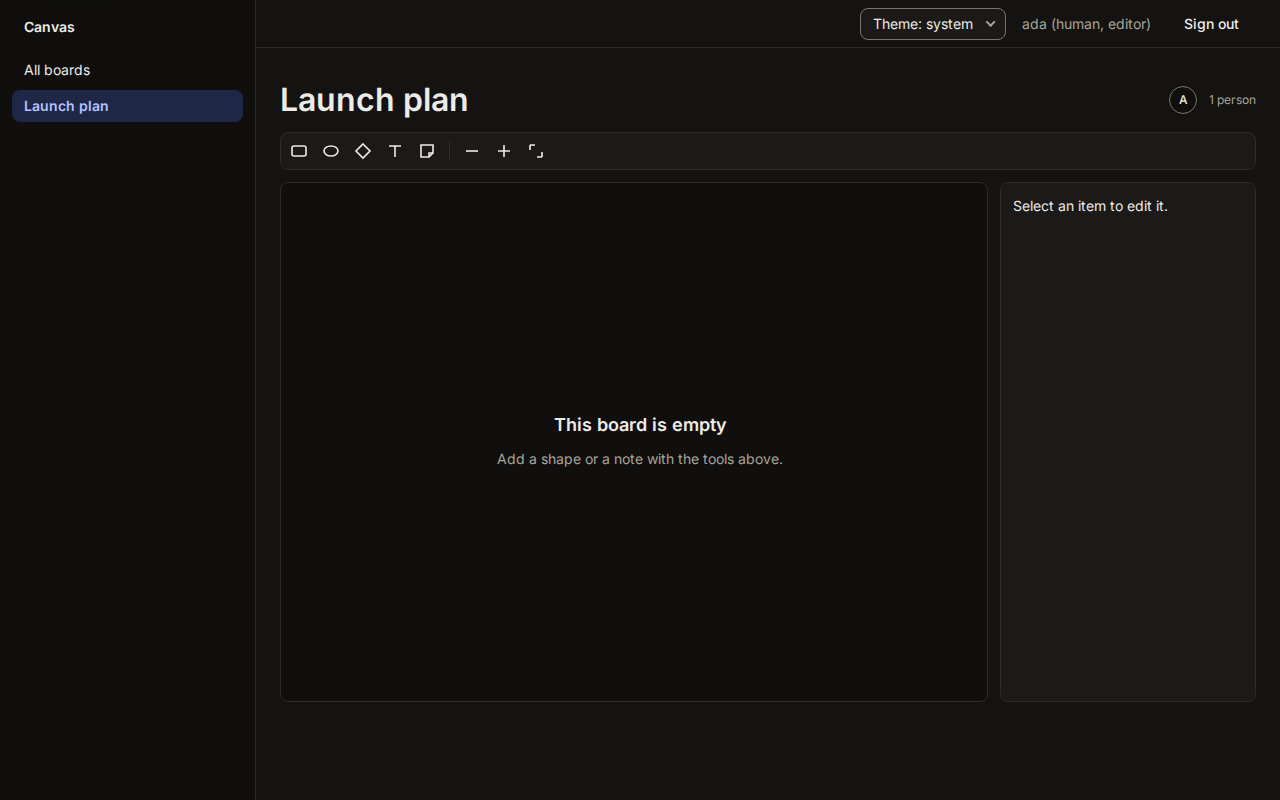
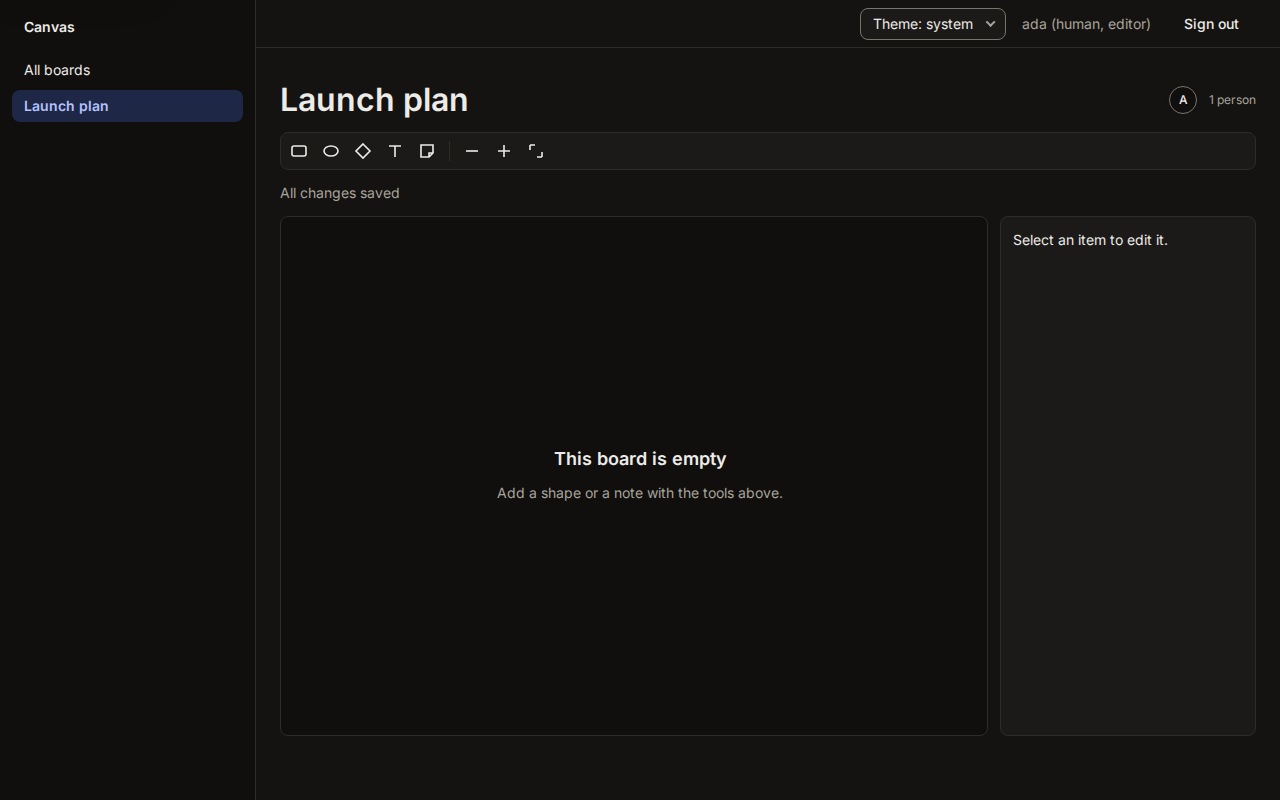
Fix the UI review findings
Hold reads while a write waits, so an old read cannot put old values
back, and warn before unload with unsaved edits. Show the focus ring
on focus as well as on selection. Read at most once a second. Test
the sub-protocol token parser. Write screenshots to test-results
unless UPDATE_SCREENSHOTS is set. Scope the board heading locator.

Changed region(s): [[0.375, 0.5, 0.625, 0.625], [0.7812, 0.25, 0.9062, 0.3125], [0.2188, 0.2188, 0.3125, 0.25]]

diff --git a/ui/BoardView.tsx b/ui/BoardView.tsx
@@ -35,7 +35,12 @@ export function BoardView({ id, token, me }: { id: string; token: string; me: { 
   const canvasBox = useRef<HTMLDivElement>(null);
   const editable = me.role === "editor";
 
-  const load = useCallback(async () => {
+  const [saving, setSaving] = useState(0);
+  const pending = useRef(0);
+  const lastRead = useRef(0);
+  const timer = useRef<ReturnType<typeof setTimeout> | undefined>(undefined);
+
+  const read = useCallback(async () => {
     try {
       const data = await client.readBoard(id);
       setBoard({ state: "ready", data });
@@ -44,10 +49,33 @@ export function BoardView({ id, token, me }: { id: string; token: string; me: { 
       setBoard((prev) => (prev.state === "ready" ? prev : { state: "error", message: describe(e), missing: e instanceof CanvasApiError && e.status === 404 }));
     }
   }, [client, id]);
+  /**
+   * Read the board again, at most once a second, and never while a write is waiting: the screen is ahead of the
+   * server then, and an older read would put old values back. The last write reads when the queue is empty.
+   */
+  const load = useCallback(async () => {
+    if (pending.current > 0) return;
+    const wait = lastRead.current + 1000 - Date.now();
+    if (wait > 0) {
+      clearTimeout(timer.current);
+      timer.current = setTimeout(() => void load(), wait);
+      return;
+    }
+    lastRead.current = Date.now();
+    await read();
+  }, [read]);
   useEffect(() => {
     setBoard({ state: "loading" });
+    lastRead.current = 0;
     void load();
+    return () => clearTimeout(timer.current);
   }, [load]);
+  useEffect(() => {
+    if (saving === 0) return;
+    const guard = (event: BeforeUnloadEvent) => event.preventDefault();
+    window.addEventListener("beforeunload", guard);
+    return () => window.removeEventListener("beforeunload", guard);
+  }, [saving]);
 
   useEffect(() => {
     const joined = joinRoom({ board: id, token, name: me.actor, onPeers: setPeers, onChange: () => void load(), onStatus: setLive });
@@ -64,6 +92,8 @@ export function BoardView({ id, token, me }: { id: string; token: string; me: { 
   /** Run one write after the one before it, then read the board again and tell the room. */
   const write = useCallback(
     (change: () => Promise<unknown>, failure: string, select?: string) => {
+      pending.current++;
+      setSaving((n) => n + 1);
       queue.current = queue.current.then(async () => {
         try {
           await change();
@@ -71,8 +101,12 @@ export function BoardView({ id, token, me }: { id: string; token: string; me: { 
         } catch (e) {
           toast({ title: failure, description: describe(e), tone: "danger" });
         }
+        pending.current--;
+        // The last write of a run reads the server's board. An earlier one leaves the screen as it is.
+        lastRead.current = 0;
         await load();
         if (select) setSelected(select);
+        setSaving((n) => n - 1);
       });
     },
     [load, toast],
@@ -118,6 +152,7 @@ export function BoardView({ id, token, me }: { id: string; token: string; me: { 
     );
   }
   const { data: d } = board;
+  const status = saving > 0 ? "Saving…" : "All changes saved";
   const empty = d.nodes.length === 0 && d.edges.length === 0;
 
   return (
@@ -135,6 +170,7 @@ export function BoardView({ id, token, me }: { id: string; token: string; me: { 
         <ToolbarButton label="Zoom in" icon={icon(<path d="M4 10h12M10 4v12" />)} onClick={() => zoom(1.25)} />
         <ToolbarButton label="Reset view" icon={icon(<path d="M4 4h5M4 4v5M16 16h-5M16 16v-5" />)} onClick={() => setView({ x: 40, y: 40, k: 1 })} />
       </Toolbar>
+      <p className="note" role="status">{editable ? status : ""}</p>
       {!editable && <p className="note">This token can read the board but not change it.</p>}
       <div className="stage" ref={canvasBox}>
         <Canvas data={d} selected={selected} editable={editable} view={view} onView={setView} onSelect={setSelected} onMove={move} onResize={resize} onDelete={remove} />

diff --git a/e2e/ui.spec.ts b/e2e/ui.spec.ts
@@ -17,13 +17,16 @@ import { createClient } from "../src/client.js";
 import { TOKENS } from "./playwright.config.js";
 
 const API = "http://127.0.0.1:18900/api/v1/canvas";
-const shots = (name: string) => `docs/ui/${name}.png`;
+// The committed set in docs/ui is refreshed on purpose (UPDATE_SCREENSHOTS=1). A normal run writes to test-results.
+const shots = (name: string) => `${process.env.UPDATE_SCREENSHOTS ? "docs/ui" : "test-results/screens"}/${name}.png`;
+/** Edits are saved when the page says so. A reload before that would drop the last ones. */
+const saved = (page: Page) => expect(page.getByText("All changes saved")).toBeVisible();
 
 async function signIn(page: Page, token: string) {
   await page.goto("/");
   await page.getByLabel("Access token").fill(token);
   await page.getByRole("button", { name: "Sign in" }).click();
-  await expect(page.getByRole("heading", { name: "Boards" })).toBeVisible();
+  await expect(page.getByRole("heading", { name: "Boards", exact: true })).toBeVisible();
 }
 
 async function axe(page: Page) {
@@ -97,6 +100,7 @@ test("create a board, add a shape and a note, move them, reload", async ({ page 
   // The box includes the stroke.
   await expect.poll(async () => Math.round((await box(page, "Rectangle")).width / 5)).toBe(44);
 
+  await saved(page);
   await page.reload();
   await expect(item(page, "Sticky note: Ship it")).toBeVisible();
   const after = await box(page, "Rectangle");
@@ -135,6 +139,7 @@ test("the keyboard moves, resizes, deletes, and clears", async ({ page }) => {
   await expect.poll(async () => Math.round((await box(page, "Rectangle")).x - start.x)).toBe(20);
   await page.keyboard.press("Shift+ArrowRight");
   await expect.poll(async () => Math.round((await box(page, "Rectangle")).width - start.width)).toBe(10);
+  await saved(page);
   await page.reload();
   const kept = await box(page, "Rectangle");
   expect([Math.round(kept.x - start.x), Math.round(kept.width - start.width)]).toEqual([20, 10]);
@@ -142,6 +147,9 @@ test("the keyboard moves, resizes, deletes, and clears", async ({ page }) => {
   await item(page, "Rectangle: First").focus();
   await page.keyboard.press("Escape");
   await expect(item(page, "Rectangle: First")).toHaveAttribute("aria-pressed", "false");
+  // Focus stays on the item, so its ring must show.
+  await expect(item(page, "Rectangle: First")).toBeFocused();
+  await expect(item(page, "Rectangle: First").locator(".ring")).toHaveCSS("stroke", /rgb/);
   await item(page, "Ellipse: Second").focus();
   await page.keyboard.press("Delete");
   await expect(item(page, "Ellipse: Second")).toHaveCount(0);
@@ -186,7 +194,7 @@ test("a missing board and a failed list show a way out", async ({ page }) => {
   await check(page, "error");
   await page.unroute("**/api/v1/canvas/boards");
   await page.getByRole("button", { name: "Try again" }).click();
-  await expect(page.getByRole("heading", { name: "Boards" })).toBeVisible();
+  await expect(page.getByRole("heading", { name: "Boards", exact: true })).toBeVisible();
 });
 
 test("two editors see each other and each other's changes", async ({ browser }) => {

diff --git a/src/worker.test.ts b/src/worker.test.ts
@@ -22,3 +22,34 @@ describe("token roles", () => {
     expect(ask({ actor: "a", kind: "human" }, "u".repeat(40))).toBeNull();
   });
 });
+
+// The browser sends its token as a sub-protocol. Failure cases, written before the parser: a wrong name or a third
+// protocol gets in, bad base64url or bytes that are not UTF-8 throw, an unknown token gets in, a viewer becomes an
+// editor, the token works on a plain request, or a wrong Authorization header falls back to the sub-protocol.
+describe("token as a WebSocket sub-protocol", () => {
+  const env = { CANVAS_API_TOKENS: JSON.stringify({ [TOKEN]: { actor: "a", kind: "human" }, ["v".repeat(40)]: { actor: "v", kind: "human", role: "viewer" } }) } as never;
+  const b64 = (text: string) => btoa(text).replace(/\+/g, "-").replace(/\//g, "_").replace(/=+$/, "");
+  const socket = (protocol: string | null, extra: Record<string, string> = {}, upgrade = "websocket") =>
+    authenticate(new Request("http://x/", { headers: { ...(upgrade ? { upgrade } : {}), ...(protocol === null ? {} : { "sec-websocket-protocol": protocol }), ...extra } }), env);
+
+  test("a good token works, and the viewer role is kept", () => {
+    expect(socket(`agentic-canvas.bearer, ${b64(TOKEN)}`)).toEqual({ actor: { kind: "human", id: "a" }, role: "editor" });
+    expect(socket(`agentic-canvas.bearer,${b64("v".repeat(40))}`)?.role).toBe("viewer");
+  });
+
+  test.each([
+    ["a wrong protocol name", `other.bearer, ${b64(TOKEN)}`],
+    ["a third protocol", `agentic-canvas.bearer, ${b64(TOKEN)}, extra`],
+    ["no token part", "agentic-canvas.bearer"],
+    ["characters outside base64url", "agentic-canvas.bearer, a+b/c="],
+    ["bytes that are not UTF-8", "agentic-canvas.bearer, _w"],
+    ["an unknown token", `agentic-canvas.bearer, ${b64("u".repeat(40))}`],
+  ])("%s gets nothing", (_name, protocol) => {
+    expect(socket(protocol)).toBeNull();
+  });
+
+  test("a plain request cannot use it, and a wrong Authorization header does not fall back to it", () => {
+    expect(socket(`agentic-canvas.bearer, ${b64(TOKEN)}`, {}, "")).toBeNull();
+    expect(socket(`agentic-canvas.bearer, ${b64(TOKEN)}`, { authorization: `Bearer ${"u".repeat(40)}` })).toBeNull();
+  });
+});

diff --git a/ui/Canvas.tsx b/ui/Canvas.tsx
@@ -201,7 +201,7 @@ export function Canvas({ data, selected, editable, view, onView, onSelect, onMov
                 <line x1={x1} y1={y1} x2={x2} y2={y2} className="hit" />
                 <line x1={x1} y1={y1} x2={x2} y2={y2} className="edge" markerEnd={e.endArrow ? "url(#arrow)" : undefined} markerStart={e.startArrow ? "url(#arrow)" : undefined} />
                 {e.text && <text aria-hidden="true" x={(x1 + x2) / 2} y={(y1 + y2) / 2 - 6} className="edge-text" textAnchor="middle">{e.text}</text>}
-                {selected === e.id && <line x1={x1} y1={y1} x2={x2} y2={y2} className="ring-line" />}
+                <line x1={x1} y1={y1} x2={x2} y2={y2} className="ring-line" />
               </g>
               {badge(e, (x1 + x2) / 2 - 25, (y1 + y2) / 2 - 14)}
               </g>
@@ -222,7 +222,7 @@ export function Canvas({ data, selected, editable, view, onView, onSelect, onMov
                 <text aria-hidden="true" x={tx} y={top} textAnchor={anchor} className={n.type === "sticky" ? "label sticky-label" : "label"}>
                   {n.type === "image" && !n.text ? <tspan>Image</tspan> : lines.map((l, i) => <tspan key={i} x={tx} dy={i === 0 ? 0 : 18}>{i < lines.length - 1 ? `${l} ` : l}</tspan>)}
                 </text>
-                {selected === n.id && <rect x={s.x - 4} y={s.y - 4} width={s.w + 8} height={s.h + 8} rx={8} className="ring" />}
+                <rect x={s.x - 4} y={s.y - 4} width={s.w + 8} height={s.h + 8} rx={8} className="ring" />
                 {selected === n.id && editable && <circle cx={s.x + s.w + 4} cy={s.y + s.h + 4} r={7 / view.k} className="handle" onPointerDown={(ev) => begin(ev, "resize", n.id)} />}
               </g>
               {badge(n, s.x, s.y)}

diff --git a/ui/ui.css b/ui/ui.css
@@ -26,8 +26,9 @@ html, body, #root { height: 100%; margin: 0; }
 .hit { stroke: transparent; stroke-width: 14; }
 .arrowhead { fill: var(--ad-color-text-muted); }
 .edge-text { fill: var(--ad-color-text); paint-order: stroke; stroke: var(--ad-color-surface-sunken); stroke-width: 4px; pointer-events: none; }
-.ring, .ring-line { fill: none; stroke: var(--ad-color-focus); stroke-width: 3; pointer-events: none; }
-.item:focus-visible .ring, .item:focus-visible .ring-line { stroke-width: 4; stroke-dasharray: none; }
+.ring, .ring-line { fill: none; stroke: none; stroke-width: 3; pointer-events: none; }
+.item.selected .ring, .item.selected .ring-line, .item:focus-visible .ring, .item:focus-visible .ring-line { stroke: var(--ad-color-focus); }
+.item:focus-visible .ring, .item:focus-visible .ring-line { stroke-width: 4; }
 .handle { fill: var(--ad-color-focus); stroke: var(--ad-color-bg); stroke-width: 2; cursor: nwse-resize; }
 .agent-badge rect { fill: var(--ad-color-agent-subtle); stroke: var(--ad-color-agent); }
 .agent-badge text { fill: var(--ad-color-agent-text); font-size: 11px; font-weight: 600; pointer-events: none; }

diff --git a/README.md b/README.md
@@ -158,7 +158,11 @@ npm run test:e2e                   # Playwright against `wrangler dev`, with axe
 ```
 
 The E2E run creates a board, adds a shape and a note, moves them, reloads, and checks each view
-with axe in the light and the dark theme. It saves screenshots to `docs/ui/`.
+with axe in the light and the dark theme. It saves screenshots to `test-results/screens/`. The committed set in `docs/ui/` shows the UI at this release. Run `UPDATE_SCREENSHOTS=1 npm run test:e2e` to refresh it.
+
+A browser cannot set a header on a WebSocket, so the UI sends its token to the live room as a WebSocket sub-protocol (`Sec-WebSocket-Protocol`). A proxy that logs request headers can record it. The API itself takes the token only in an `Authorization` header, and the sub-protocol only on a WebSocket upgrade.
+
+The UI saves each edit in order, and shows "Saving…" until the last one is stored. It asks the browser to confirm before you leave a page with unsaved edits. It reads the board again at most once a second.
 
 UI limits: the UI draws with the theme colors and ignores the `fill` and `stroke` of an element.
 It shows no image pixels. A text field of a shape is plain text. Two editors who move one item
